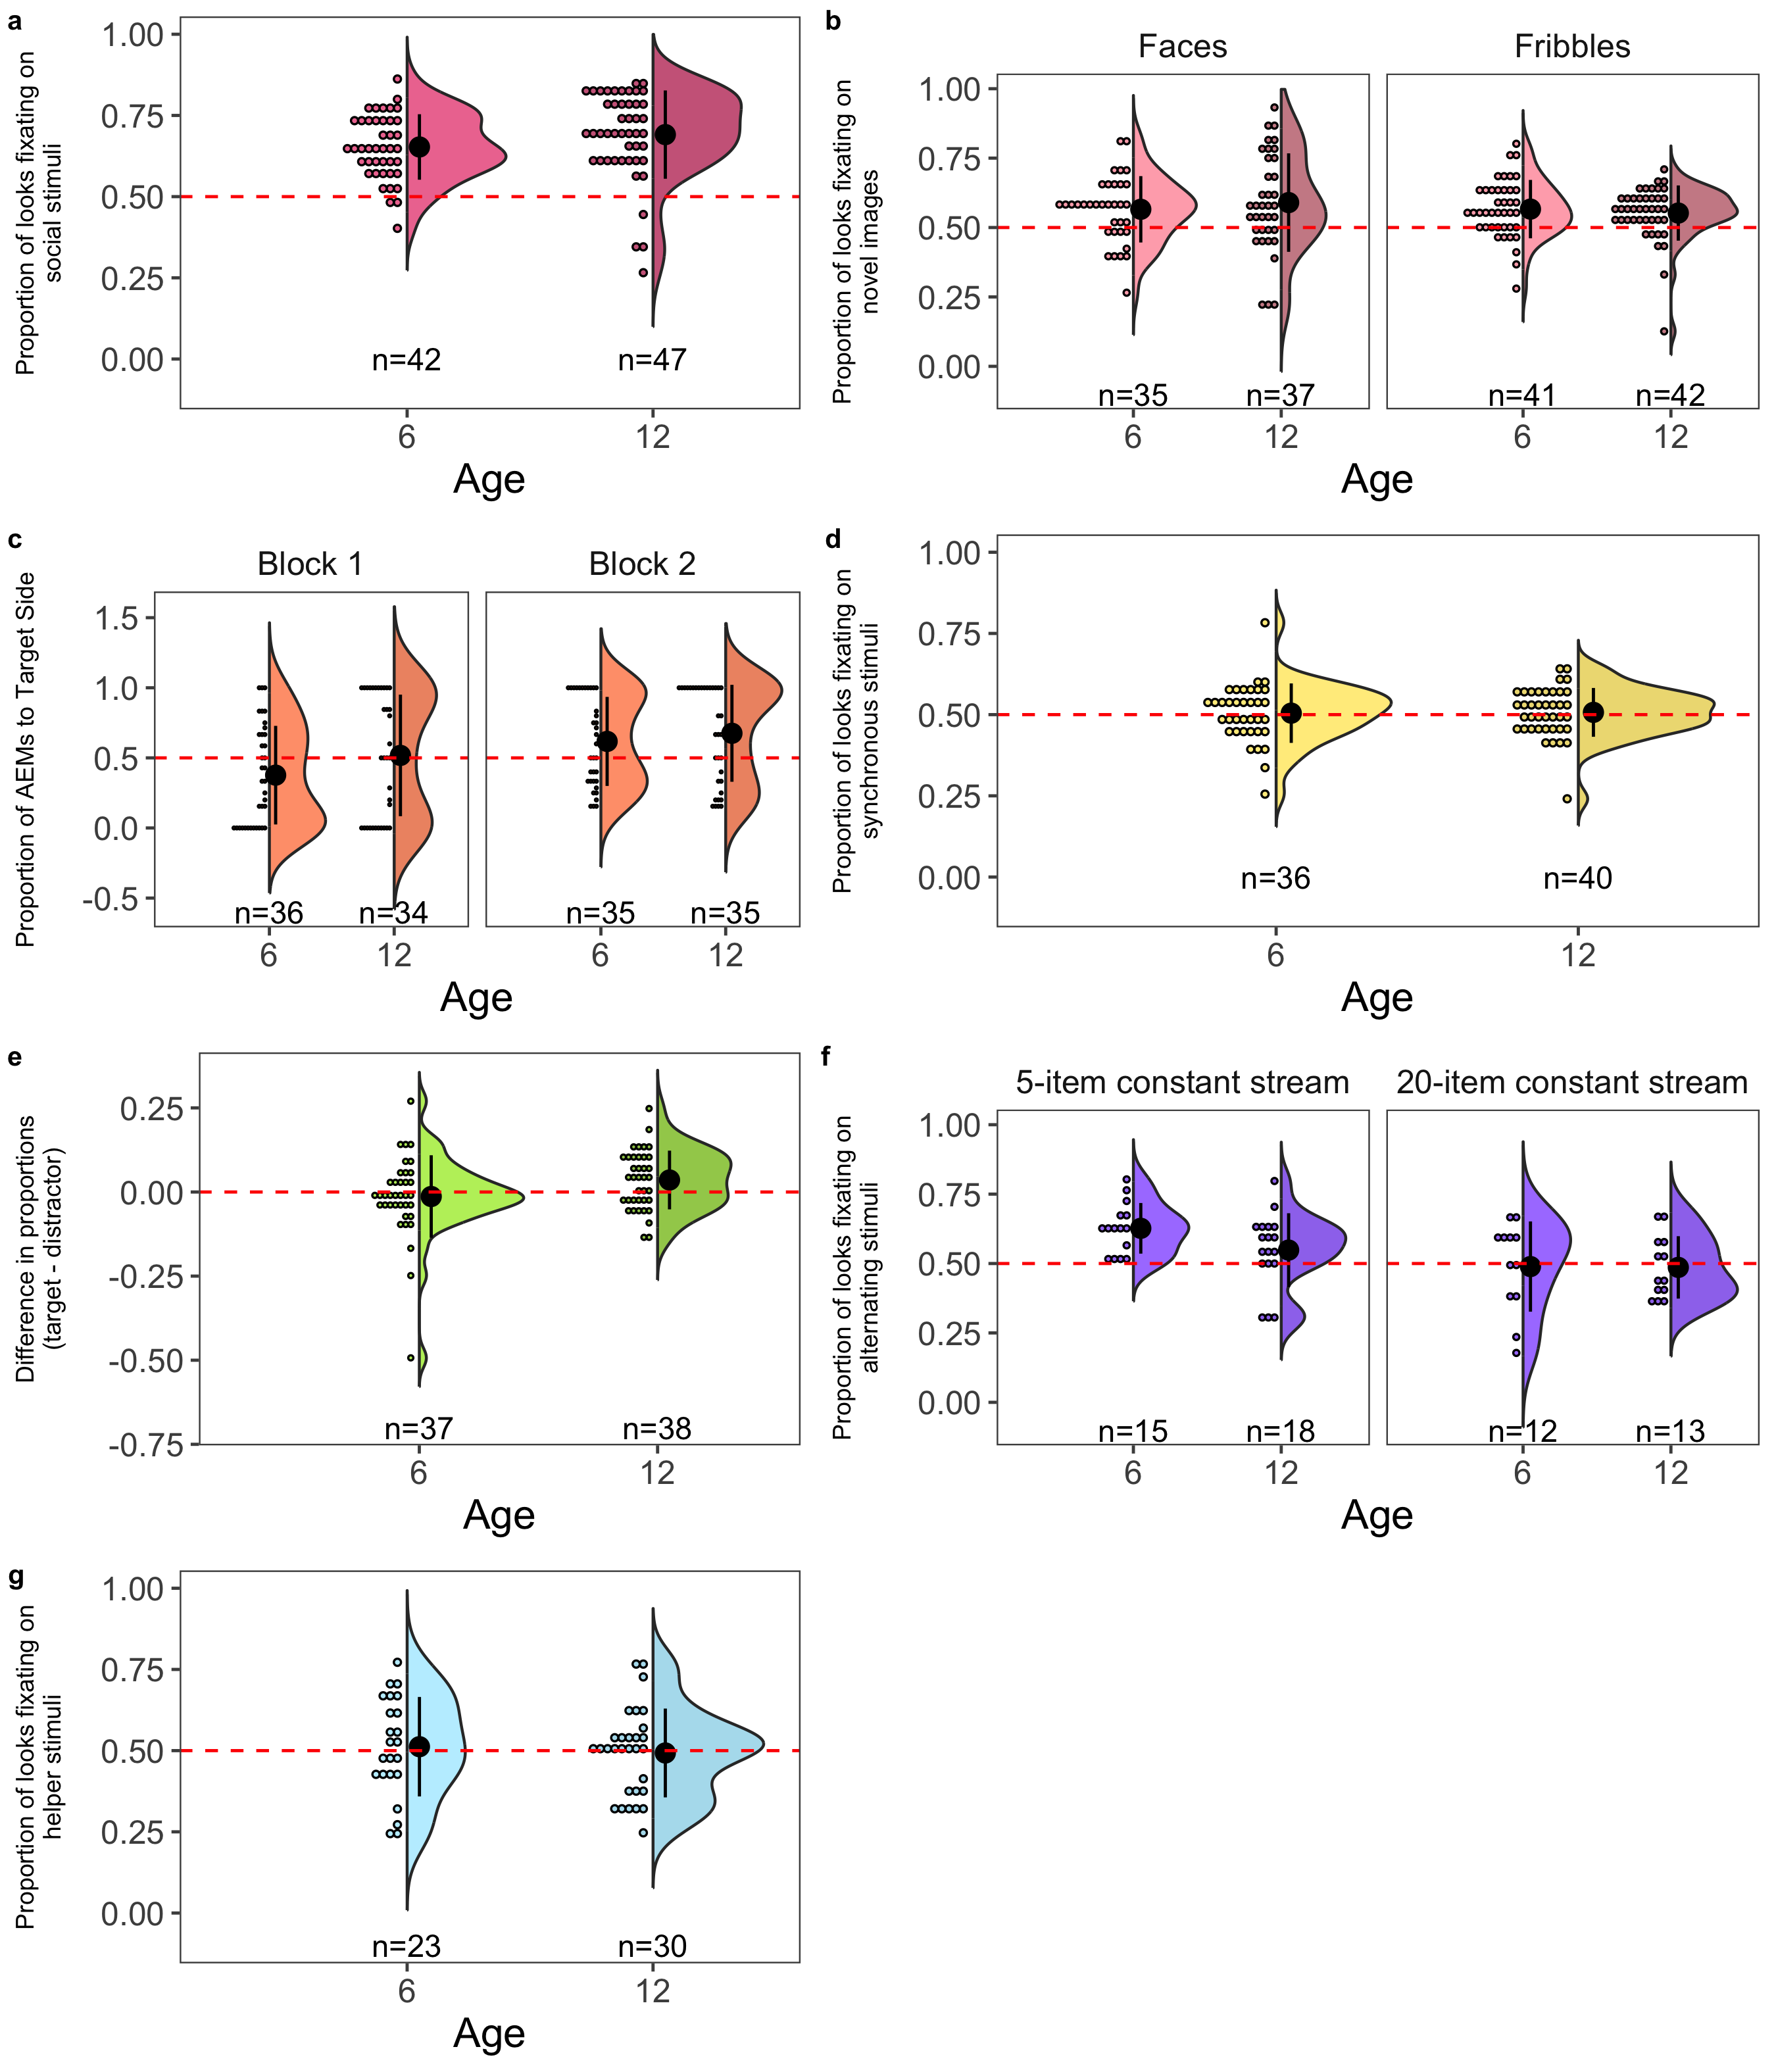
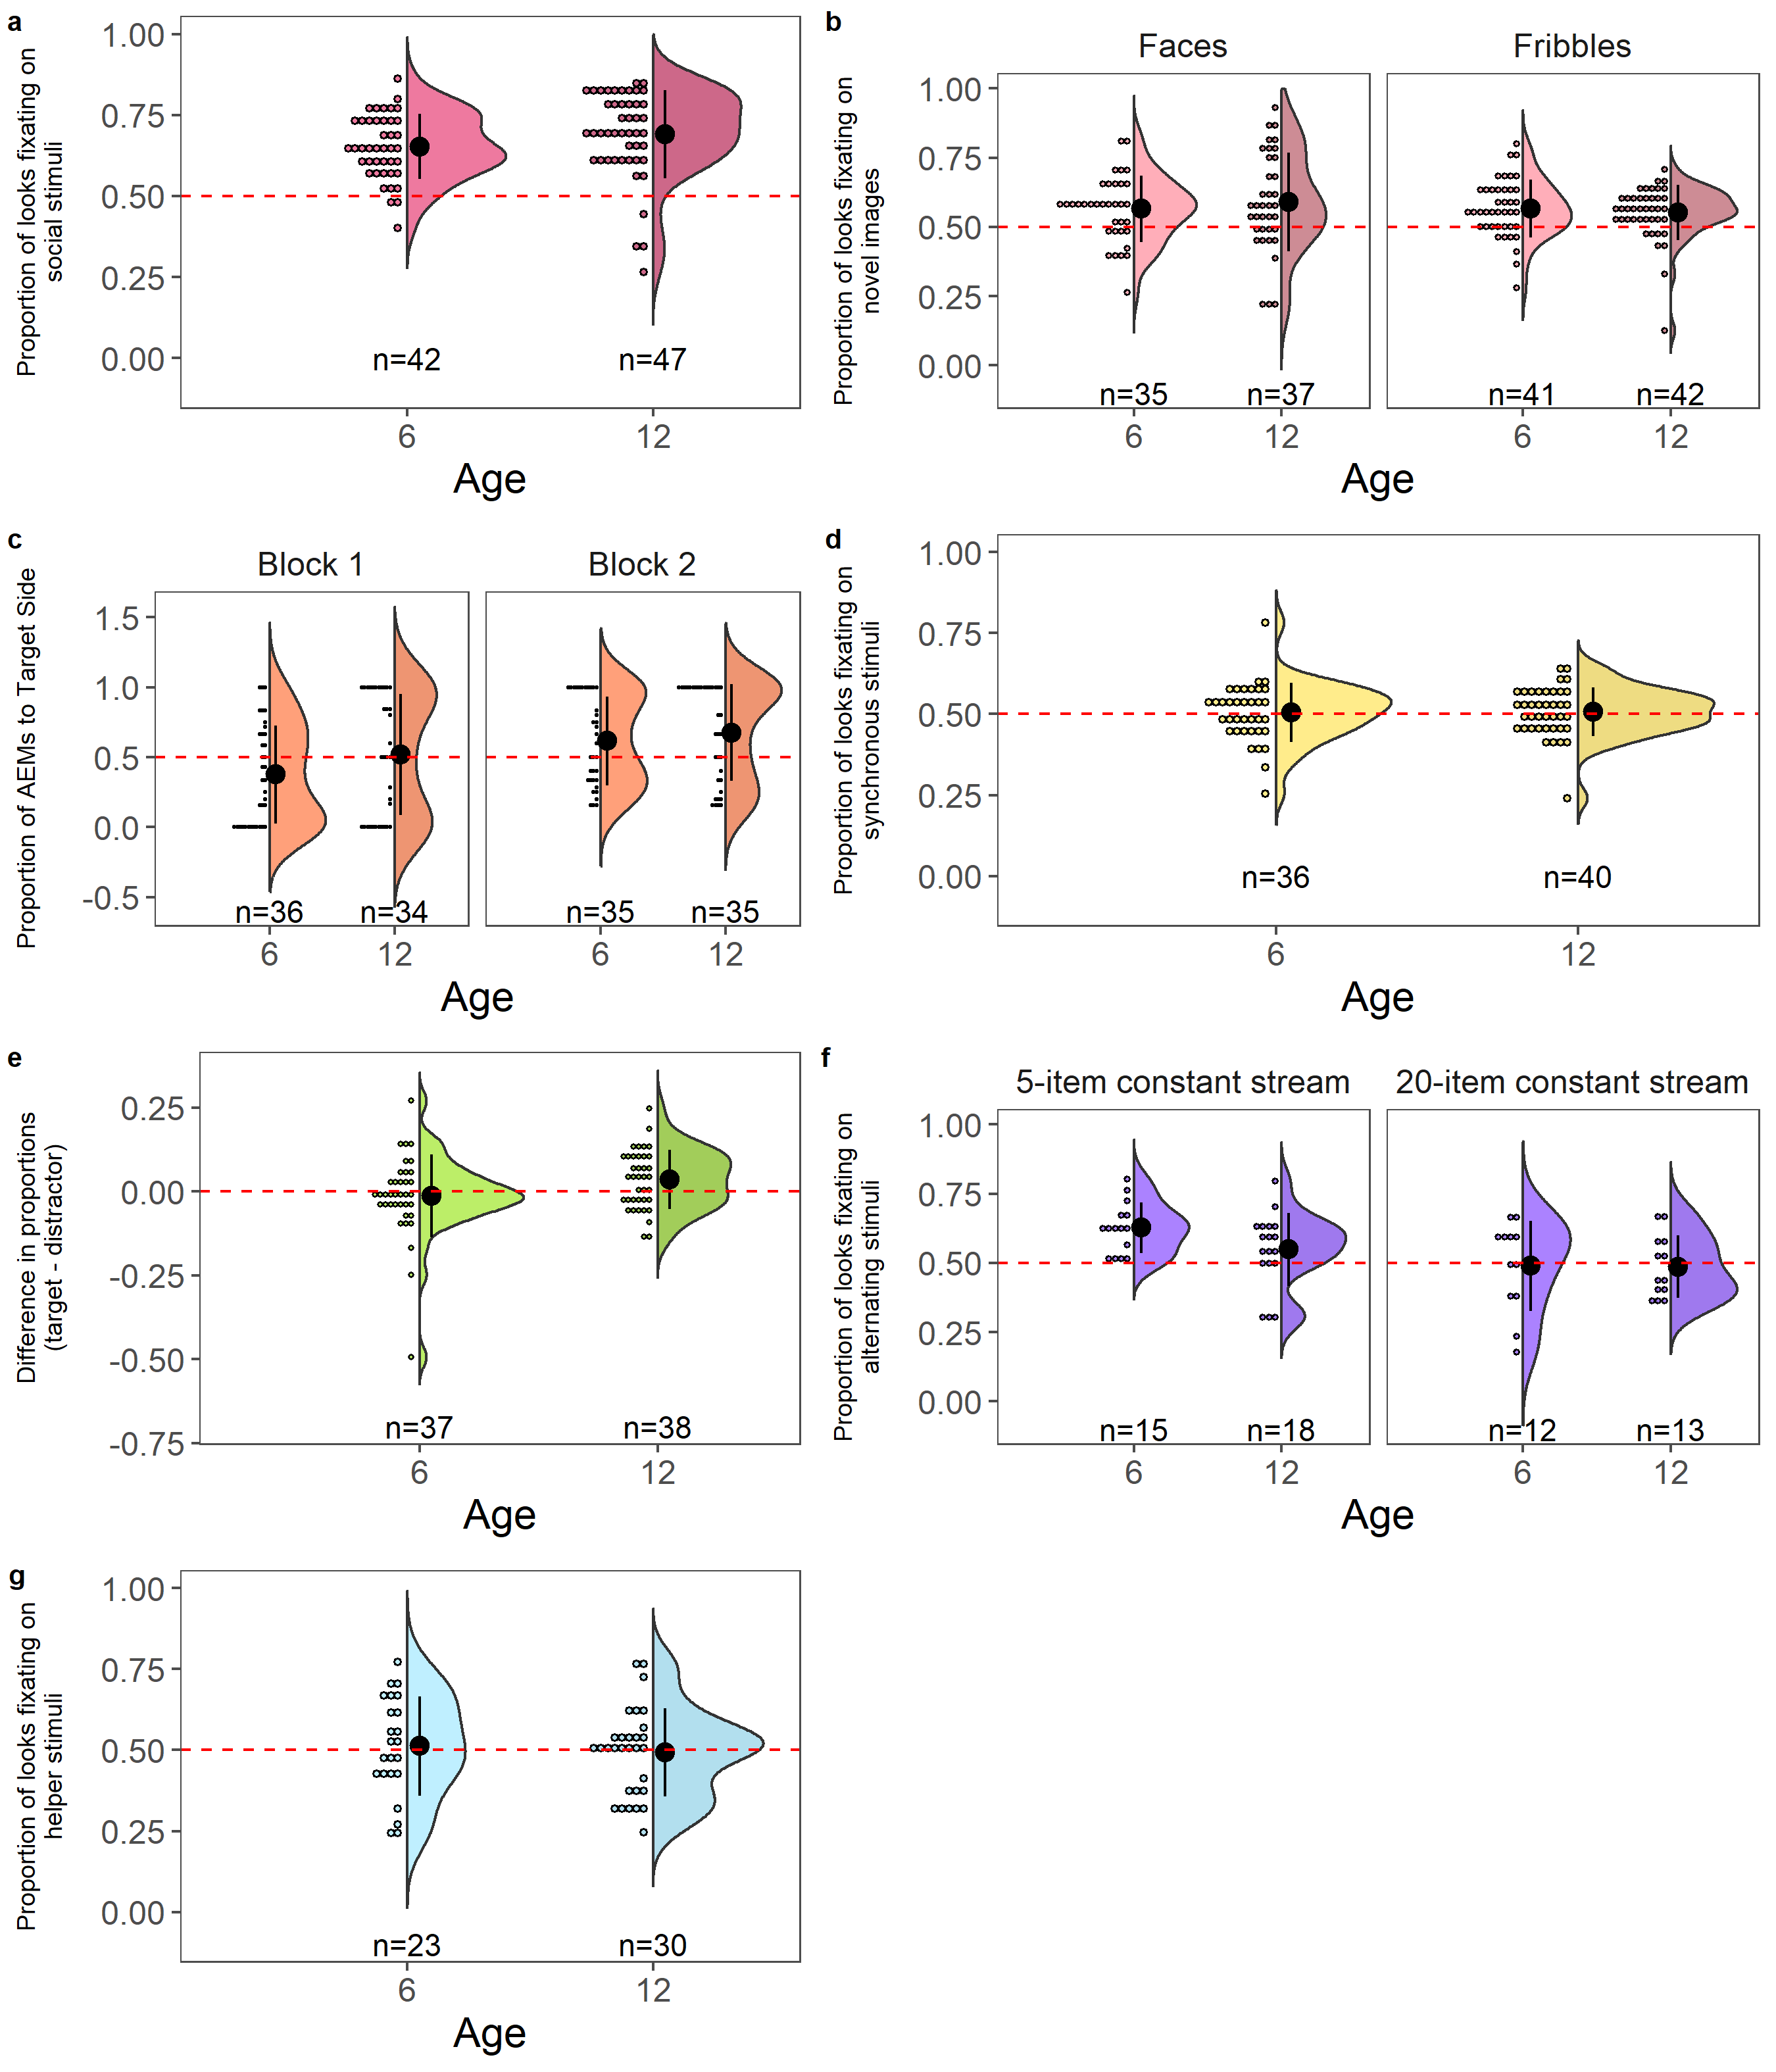
osf link updated

diff --git a/Aim2/Aim2_manuscript/RISE_Aim2_Manuscript.tex b/Aim2/Aim2_manuscript/RISE_Aim2_Manuscript.tex
@@ -224,7 +224,7 @@ The battery includes seven tasks to remotely assess developmental trajectories.
 This study expands on previous pilot work with a larger sample and modified methods.
 Data from 111 infants (55 6-month-olds and 56 12-month-olds) were collected asynchronously.
 Infant looking behavior was recorded with open-source software.
-Results for attention, memory, and prediction replicated expected patterns, supporting the feasibility of remote assessment in those domains. Other tasks assessing word comprehension and multimodal processing were not consistent with predictions, highlighting areas for further modifications of the remote tools. Overall, we demonstrate the translation and remote replication of several key tasks that assess early development which provides the opportunity for scalability of these tasks for larger, diverse populations.
+Results for tasks assessing attention, memory, and prediction replicated expected patterns, supporting the feasibility of remote assessment in those domains. Other tasks assessing word comprehension and multimodal processing were not consistent with predictions, highlighting areas for further modifications of the remote tools. Overall, we demonstrate the translation and remote replication of several key tasks that assess early development which provides the opportunity for scalability of these tasks for larger, diverse populations.
 
 \textbf{Keywords:} cognitive development, remote, infant
 
@@ -232,7 +232,7 @@ Results for attention, memory, and prediction replicated expected patterns, supp
 
 \subsection{Introduction}\label{introduction}
 
-Our understanding of early cognitive and linguistic development draws on more decades of laboratory-based studies that have generally required caregivers to travel to the lab with their infants for in-person assessments.
+Our understanding of early cognitive and linguistic development draws on decades of laboratory-based studies that have generally required caregivers to travel to the lab with their infants for in-person assessments.
 While this approach brought us much of our foundational knowledge about infant cognitive development, a number of important findings have failed to replicate from one lab to the next (Lavelle, 2024).
 It is unclear whether these replication failures are because the findings are unreliable, the populations studied in the different locations differ in some way that has a meaningful effect on the results, or because the labs used different methods.
 Recent movements in ``Big Science'' (Byers-Heinlein, Tsui, Bergmann, et al., 2021; {Byers-Heinlein, Tsui, van Renswoude, et al.}, 2021; Frank et al., 2017; Soderstrom et al., 2025; The ManyBabies Consortium, 2020; Zettersten et al., 2024) have improved our efforts to reproduce studies in larger samples, in some cases, with mixed results as some recent studies have failed to replicate seminal studies (Lucca et al., 2025; Schreiner et al., 2024).
@@ -240,7 +240,7 @@ Recent movements in ``Big Science'' (Byers-Heinlein, Tsui, Bergmann, et al., 202
 The Remote Infant Studies of Early Learning (RISE) Battery was established to expand on these efforts using a single platform to present a consistent set of stimuli and one automated approach to responses.
 One of its overall aims is to facilitate the study of cognitive and linguistic development in early infancy in a scalable, generalizable manner; this in turn would allow for its application in other populations, such as infants with high risk of Autism Spectrum Disorders in future work.
 The RISE Battery consists of seven tasks modeled on traditional laboratory measures, adapted for remote use in the home.
-In conjunction with remote administration options through the Children Helping Science platform (Scott, Chu, \& Schulz, 2017; Scott \& Schulz, 2017) and automated coding of infant looking behavior via the open source software, iCatcher+ (Erel et al., 2023), the RISE Battery allows us to test developmental milestones without sources of unintentional experimenter bias and inconsistent stimuli presentation associated with lab-specific methods.
+In conjunction with remote administration options through the Children Helping Science platform (Scott, Chu, \& Schulz, 2017; Scott \& Schulz, 2017) and automated coding of infant looking behavior via open source software, iCatcher+ (Erel et al., 2023), the RISE Battery allows us to test developmental milestones without sources of unintentional experimenter bias and inconsistent stimuli presentation associated with lab-specific methods.
 Therefore, the RISE battery greatly reduces possible epistemic uncertainty.
 Recent work demonstrated the feasibility of this approach in a small sample of infants at 6 (n = 29) and 12 months (n = 26) (Tenenbaum et al., 2025).
 In the current study, we expand on those findings with (1) updated stimuli adapted from the pilot work and (2) a larger sample of infants.
@@ -248,7 +248,7 @@ In the current study, we expand on those findings with (1) updated stimuli adapt
 \subsection{The RISE Battery}\label{the-rise-battery}
 
 The RISE Battery includes assessments of attention, memory, prediction, multisensory processing, word comprehension, social evaluation, and numeracy.
-These originally lab-based tasks were selected due to their demonstrated or hypothesized associations with developmental outcomes, including language skills, mathematical abilities, social skills, or autism diagnosis (Arunachalam \& Luyster, 2016; Bradshaw, Shic, \& Chawarska, 2011; Decarli, Piazza, \& Izard, 2023; Hamlin, Wynn, \& Bloom, 2007; Li et al., 2024; Pierce et al., 2016; Reuter, Emberson, Romberg, \& Lew-Williams, 2018; Senju, 2013; Sinha et al., 2014; Starr, Libertus, \& Brannon, 2013) (see Figure \ref{fig:frame-capture}).
+These originally lab-based tasks were selected due to their associations with developmental outcomes, including language skills, mathematical abilities, social skills, and/or autism diagnosis (Arunachalam \& Luyster, 2016; Bradshaw, Shic, \& Chawarska, 2011; Decarli, Piazza, \& Izard, 2023; Hamlin, Wynn, \& Bloom, 2007; Li et al., 2024; Pierce et al., 2016; Reuter, Emberson, Romberg, \& Lew-Williams, 2018; Senju, 2013; Sinha et al., 2014; Starr, Libertus, \& Brannon, 2013) (see Figure \ref{fig:frame-capture}).
 With mixed success, the pilot study (Tenenbaum et al., 2025) added to growing evidence that established laboratory-based measures of language and cognitive development can be translated to in-home remote assessment (Bacon, Weaver, \& Saffran, 2021; {Bánki, de Eccher, Falschlehner, Hoehl, \& Markova}, 2022; Chuey, Boyce, Cao, \& Frank, 2024; Silver et al., 2021).
 
 In addition to establishing consistent methods for presentation of the experiment on the Children Helping Science platform, creating unified stimuli across infants, and exploring automated (i.e., scalable) coding methods, the RISE Battery adds a number of methodological advances that increase accessibility.
@@ -264,7 +264,7 @@ Below, we enumerate the constructs we measured and note modifications from the p
 
 \begin{figure}
 
-{\centering \includegraphics[width=0.75\linewidth]{/Users/krg/Documents/RISE_7_12/Aim2/Aim2_manuscript/images/frame_captures} 
+{\centering \includegraphics[width=0.75\linewidth]{C:/Users/et121/Documents/RISE/Aim2/Aim2_manuscript/images/frame_captures} 
 
 }
 
@@ -300,7 +300,7 @@ In the current study, the same pilot stimuli were used to assess social evaluati
 Results suggested the ability to discriminate quantities differing by a 1:4-ratio (i.e., 5 vs 20 dots) at 12 months but not 6 months.
 Because the results among 12-month-olds were consistent with preregistered hypotheses, and the lack of effect among 6-month-olds may have been related to the small sample size in the pilot study, in the current study, the same pilot stimuli were used.
 
-The hypotheses for the current study were the same as those set out in the pre-registration for the pilot study.
+The hypotheses for the current study were the same as those set out in the pre-registration for the pilot study \url{https://osf.io/2xqmn/overview?view_only=d312ac2acea048c598700aa2e0906b35}.
 
 \subsection{Methods}\label{methods}
 